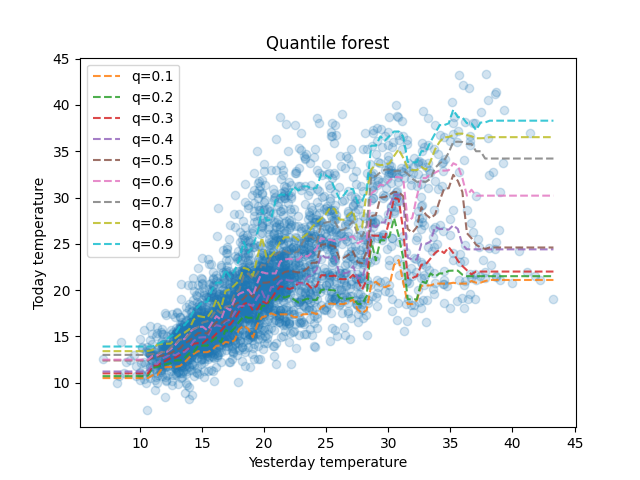
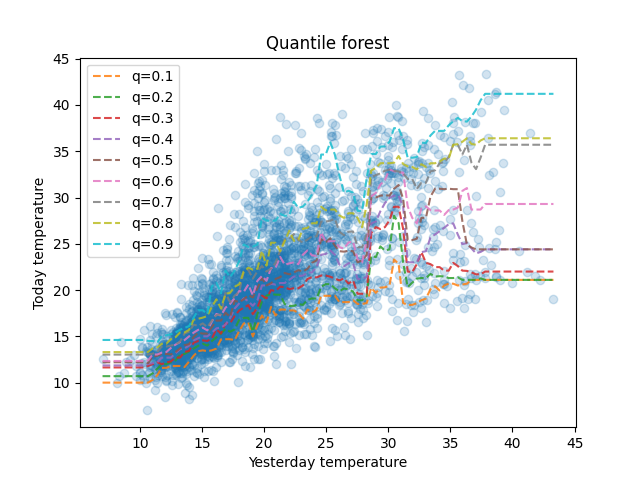
ord imprts

Changed region(s): [[0.1562, 0.2188, 0.875, 0.8125], [0.75, 0.1875, 0.875, 0.2188]]

diff --git a/src/kernel_quantile_regression/kqr.py b/src/kernel_quantile_regression/kqr.py
@@ -19,15 +19,15 @@ from sklearn.experimental import enable_halving_search_cv
 from sklearn.metrics import make_scorer
 from sklearn.metrics import mean_pinball_loss
 
-from sklearn.metrics.pairwise import rbf_kernel
-from sklearn.metrics.pairwise import laplacian_kernel
-from sklearn.metrics.pairwise import cosine_similarity
-from sklearn.metrics.pairwise import linear_kernel
-from sklearn.metrics.pairwise import polynomial_kernel
-from sklearn.metrics.pairwise import sigmoid_kernel
-from sklearn.metrics.pairwise import chi2_kernel
 from sklearn.gaussian_process.kernels  import Matern
 from sklearn.gaussian_process.kernels import ExpSineSquared
+from sklearn.metrics.pairwise import chi2_kernel
+from sklearn.metrics.pairwise import cosine_similarity
+from sklearn.metrics.pairwise import laplacian_kernel
+from sklearn.metrics.pairwise import linear_kernel
+from sklearn.metrics.pairwise import polynomial_kernel
+from sklearn.metrics.pairwise import rbf_kernel
+from sklearn.metrics.pairwise import sigmoid_kernel
 
 from sklearn.model_selection import HalvingRandomSearchCV
 from sklearn.model_selection import GridSearchCV
@@ -64,7 +64,7 @@ class KQR(RegressorMixin, BaseEstimator):
         additional parameter for kernels taking more than one parameter
     
     omega : float, default=None
-        additional parameter for kernels taking more than one parameter
+        additional parameter for kernels taking more than two parameters
 
     c : float, default=None
         constant offset added to scaled inner product of polynomial, sigmoid kernels
@@ -108,35 +108,35 @@ class KQR(RegressorMixin, BaseEstimator):
         if self.kernel_type=="gaussian_rbf":
             return rbf_kernel(X,Y, gamma=self.gamma)
         
-        if self.kernel_type=="laplacian":
+        elif self.kernel_type=="laplacian":
             return laplacian_kernel(X,Y, gamma=self.gamma)
         
         
-        if self.kernel_type=="linear":
+        elif self.kernel_type=="linear":
             return linear_kernel(X,Y)
 
-        if self.kernel_type=="cosine":
+        elif self.kernel_type=="cosine":
             return cosine_similarity(X,Y)
         
-        if self.kernel_type=="polynomial":
+        elif self.kernel_type=="polynomial":
             return polynomial_kernel(X,Y, coef0=self.c, degree=self.d)
         
-        if self.kernel_type=="sigmoid":
+        elif self.kernel_type=="sigmoid":
             return sigmoid_kernel(X,Y, coef0=self.c, gamma=self.gamma)
         
-        if self.kernel_type=="matern":
+        elif self.kernel_type=="matern":
             matern_kernel=1.0*Matern(length_scale=self.gamma, nu=self.nu)
             return matern_kernel(X,Y)
 
-        if self.kernel_type=="chi_squared":
+        elif self.kernel_type=="chi_squared":
             return chi2_kernel(X,Y,gamma=self.gamma)
         
-        if self.kernel_type=="periodic":
+        elif self.kernel_type=="periodic":
             periodic=1.0*ExpSineSquared(length_scale=self.gamma, periodicity=self.p)
             return periodic(X,Y)
         
         # class of kernels functions are closed under addition and product
-        if self.kernel_type=="gaussian_rbf_x_laplacian":
+        elif self.kernel_type=="gaussian_rbf_x_laplacian":
             return rbf_kernel(X,Y, gamma=self.gamma)* laplacian_kernel(X,Y, gamma=self.sigma)
         
         

diff --git a/kqr_tutorial.py b/kqr_tutorial.py
@@ -171,7 +171,7 @@ if __name__=="__main__":
     # kernel quantile regression
     qr_krn_models=[]
     y_test_pred_qr_krn=[]
-    ktype="chi_squared"
+    ktype="gaussian_rbf"
 
     # gamma=[1e-1,1e-2,1,5,10,20]
     # sigma=[1e-1,1e-2,1,5,10,20]
